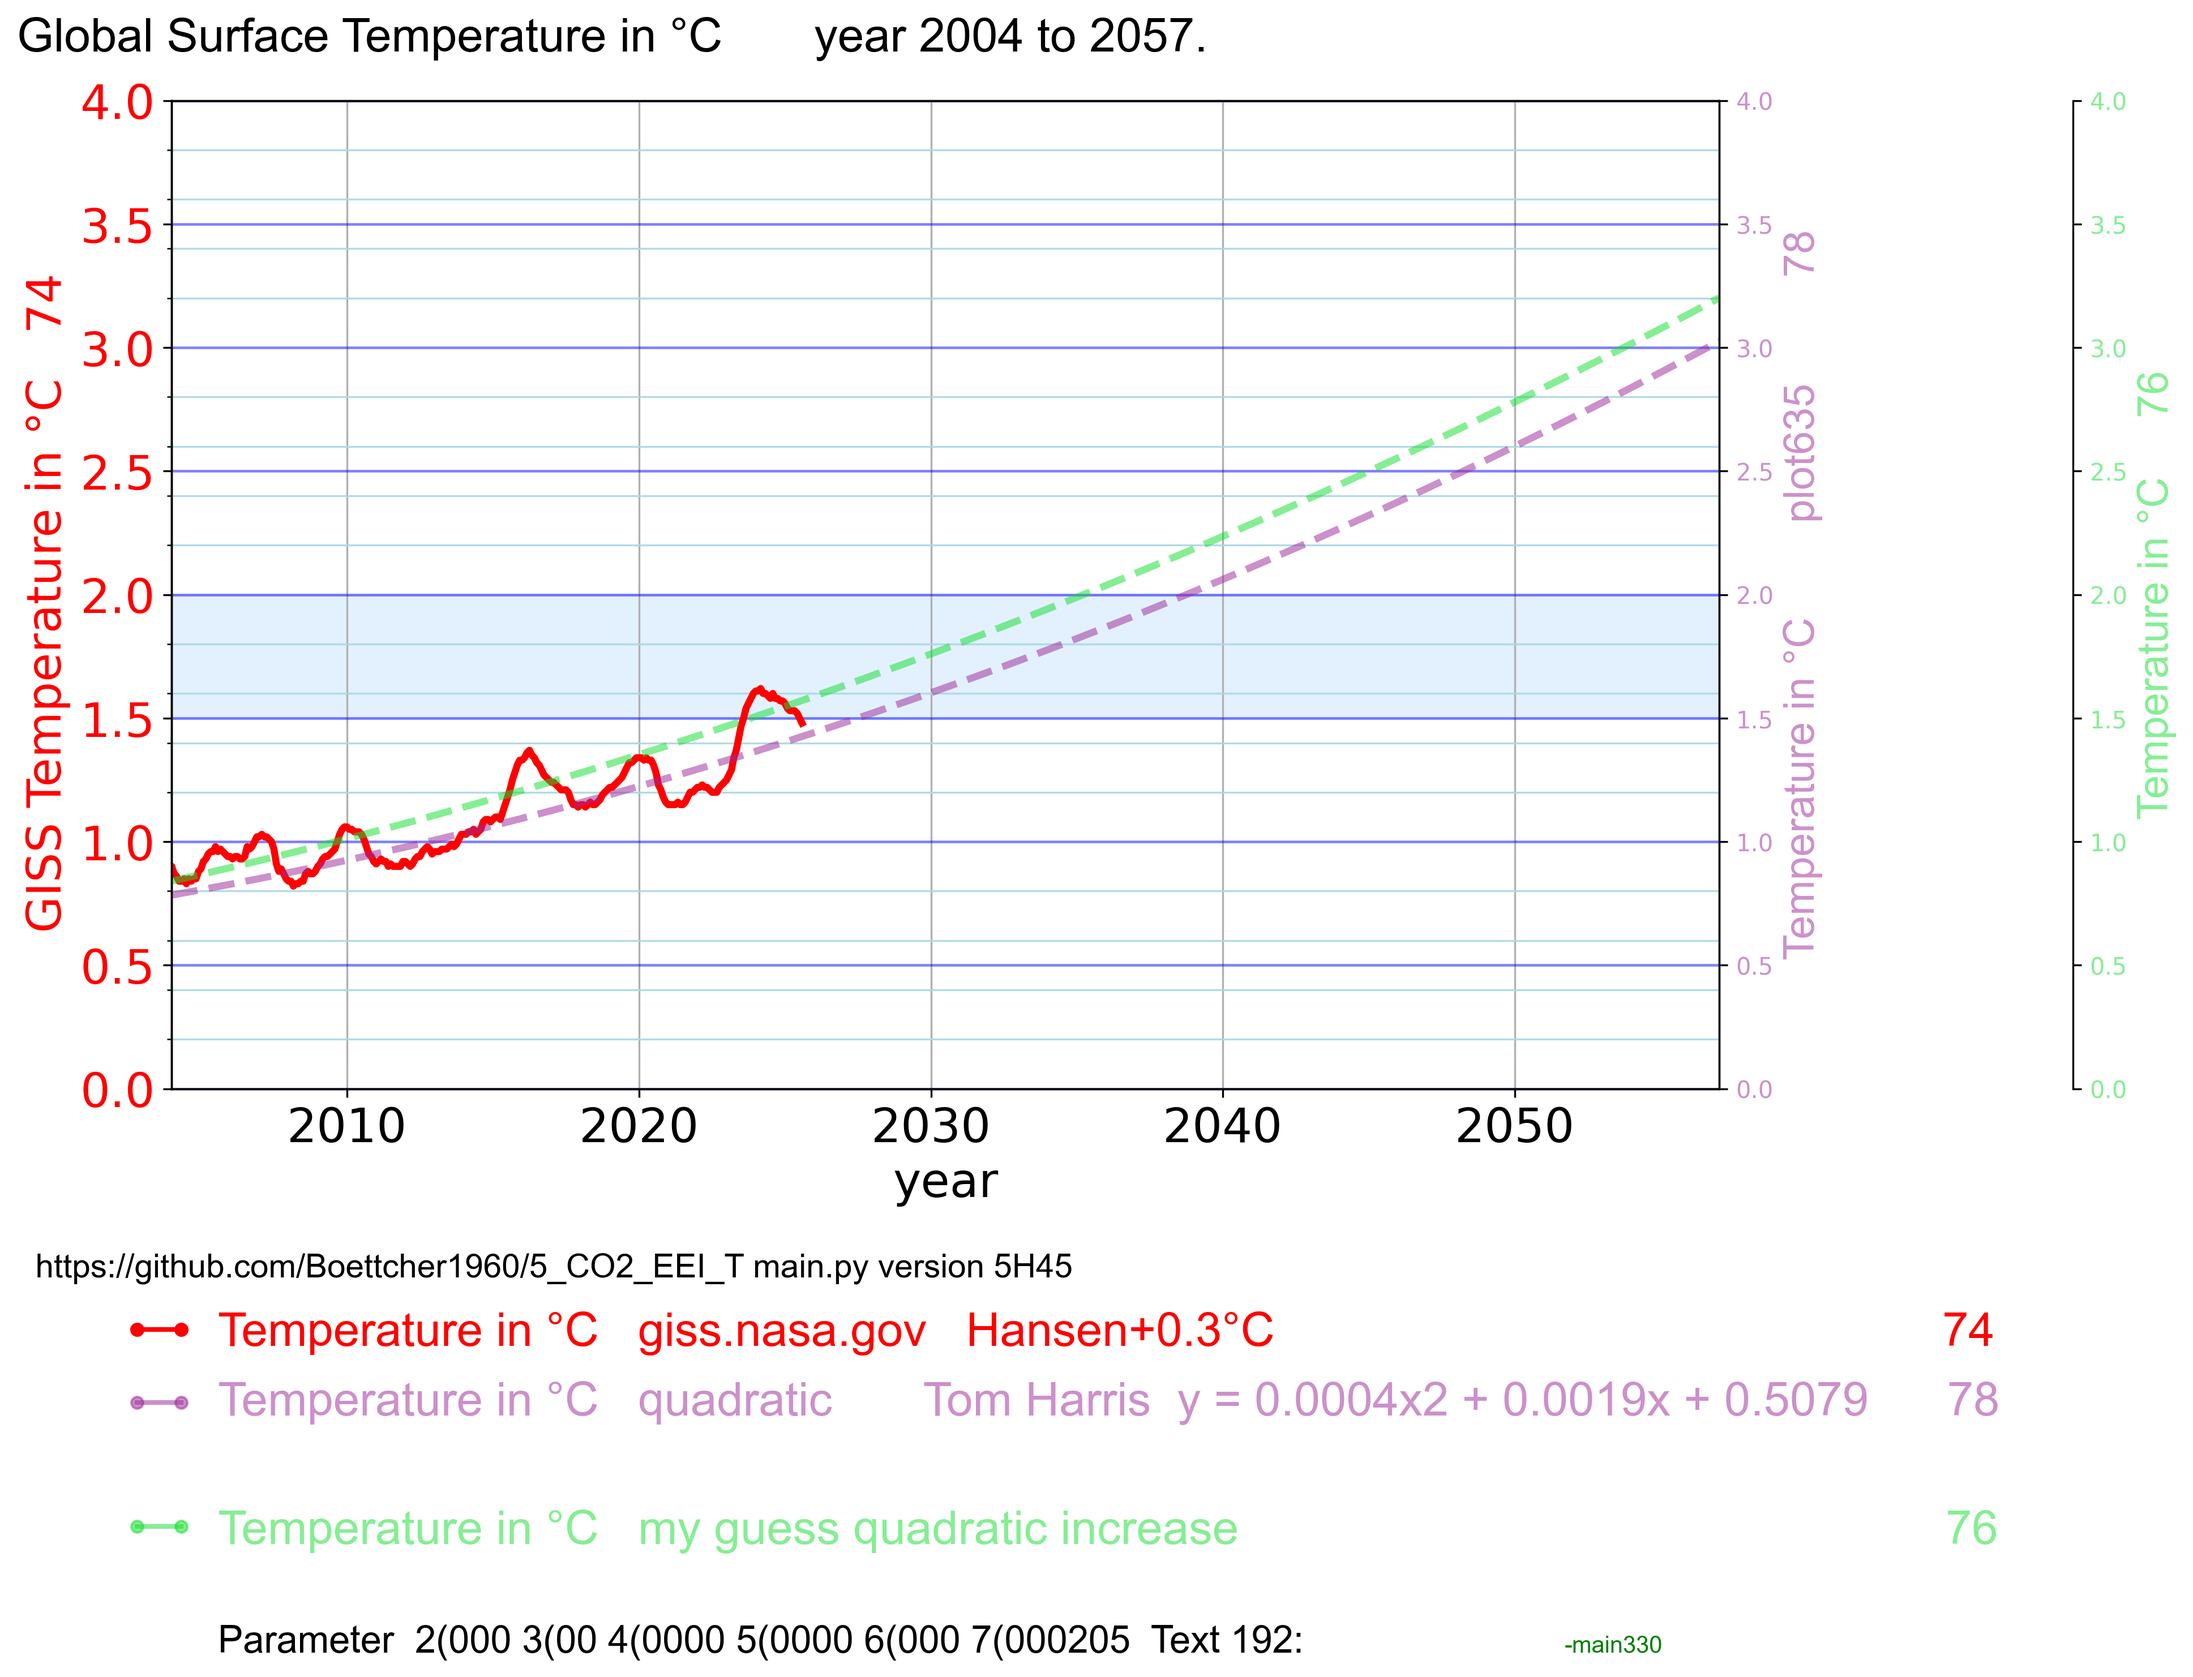
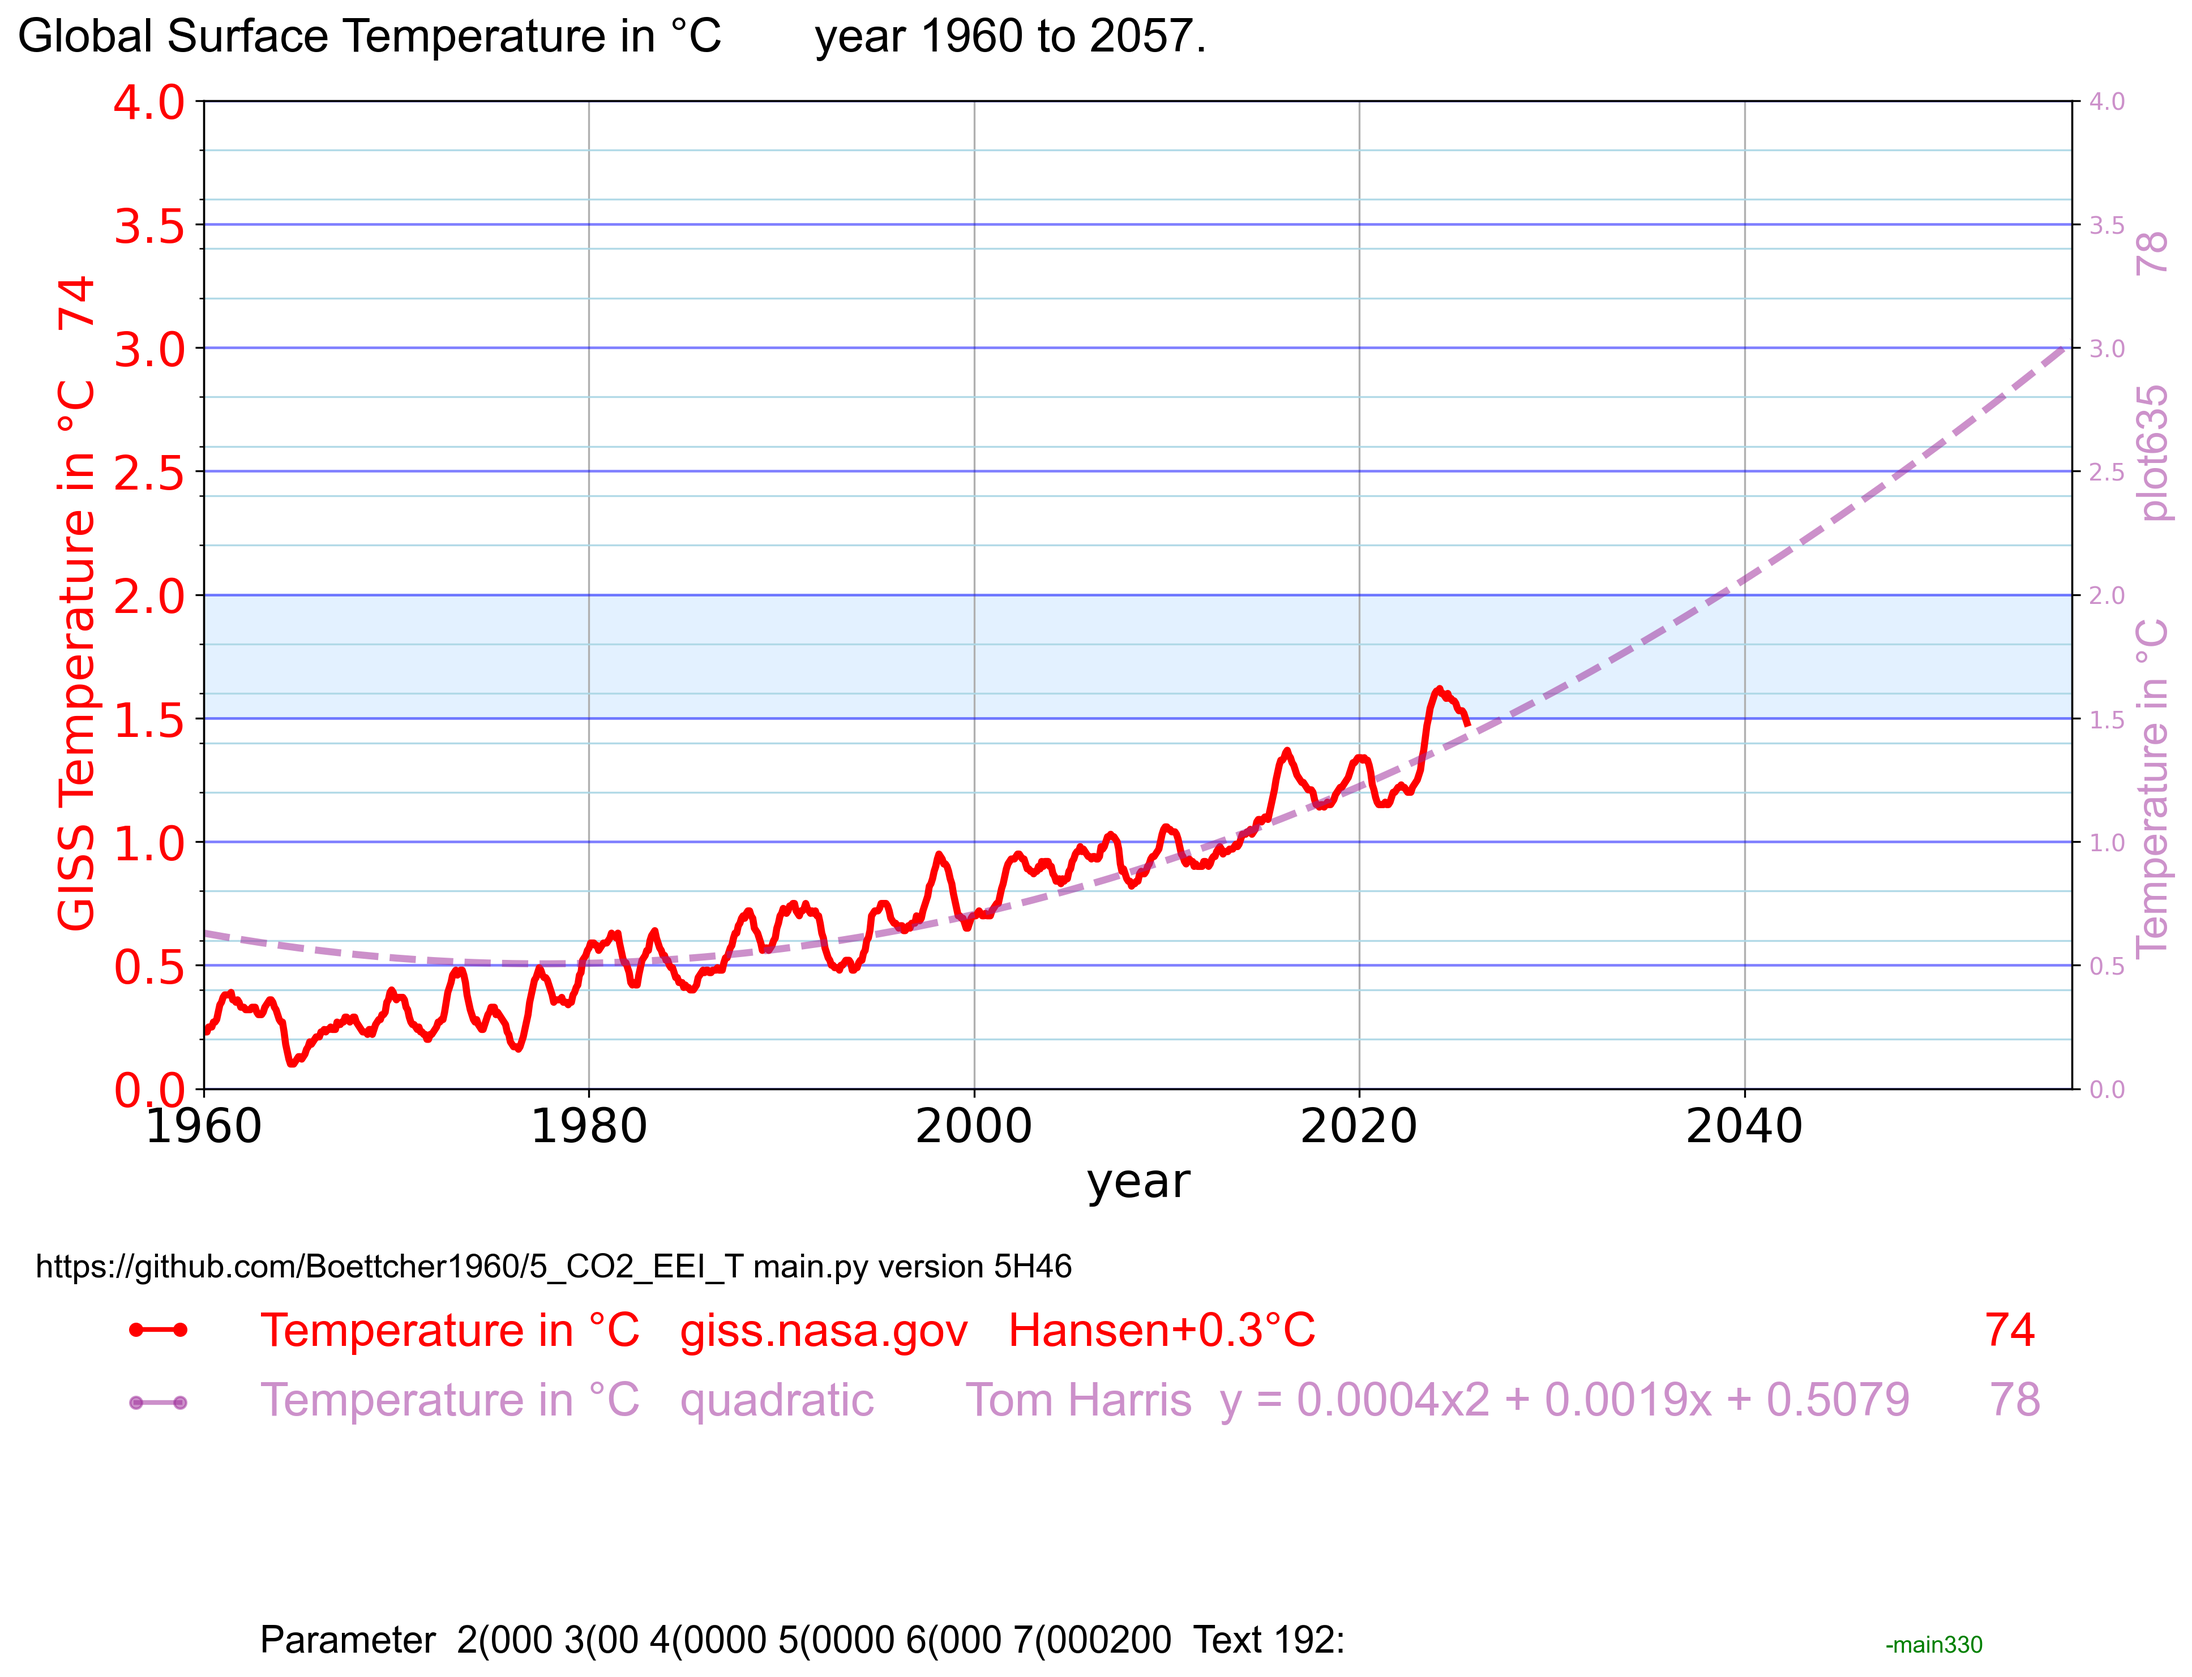
h46

diff --git a/config.py b/config.py
@@ -58,7 +58,7 @@ plot72_AESS_T = 0 # 2 , 3
 plot73_ECS_T = 0 # 3
 plot74_GIS_T = 2 # 2, 3,4,5 =right y axis
 linear_41_75 = 0 # 3 4 5
-plot76_my_T = 5 # 3
+plot76_my_T = 0 # 3, 5
 plot_T_77 = 0 # 3, 4
 plot_T_78 = 3 # Tom Harris
 
@@ -220,7 +220,7 @@ y_77min = 0 #  Temperature
 y_77max = 4 #  Temperature 
 y_78min = 0 #  Temperature  
 y_78max = 4 #  Temperature 
-x_anf = 2004
+x_anf = 1960
 x_end = 2057
 
 # constants

diff --git a/main.py b/main.py
@@ -1,5 +1,5 @@
 # main.py
-v = "5H45" # line2_play = 61
+v = "5H46" # line2_play = 61
 # https://github.com/Boettcher1960/5_CO2_EEI_T
 # ocean stratification https://bsky.app/profile/thomas-boettcher.bsky.social/post/3mj7zx7fzsc26
 # https://drtomharris.substack.com/p/the-great-decoupling-how-ocean-stratification
